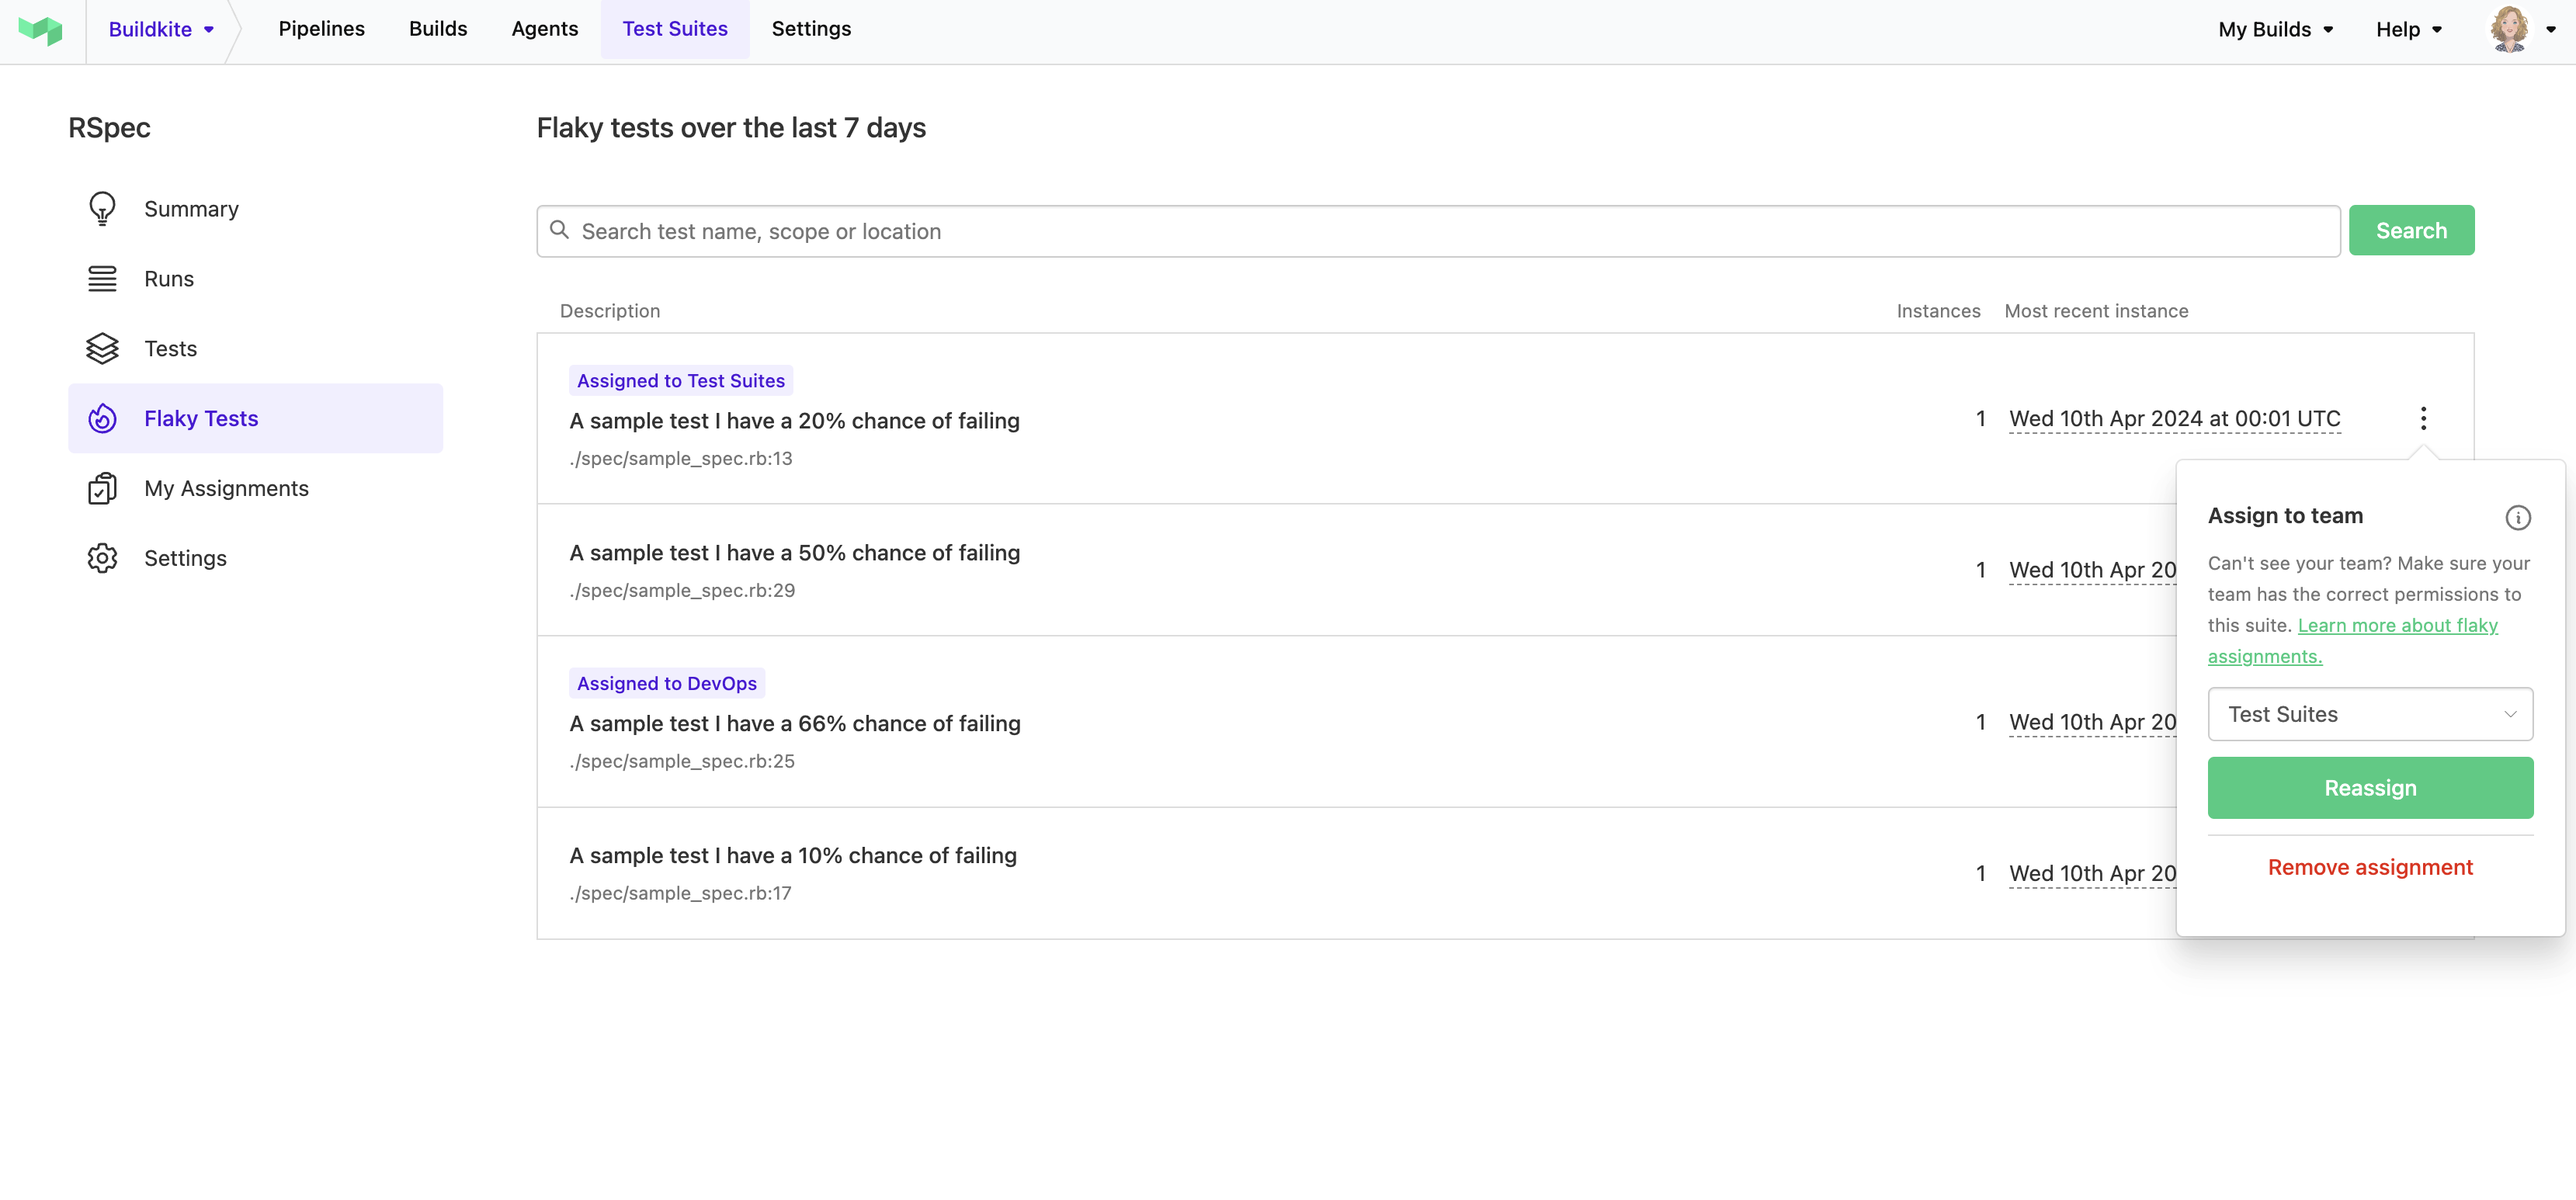
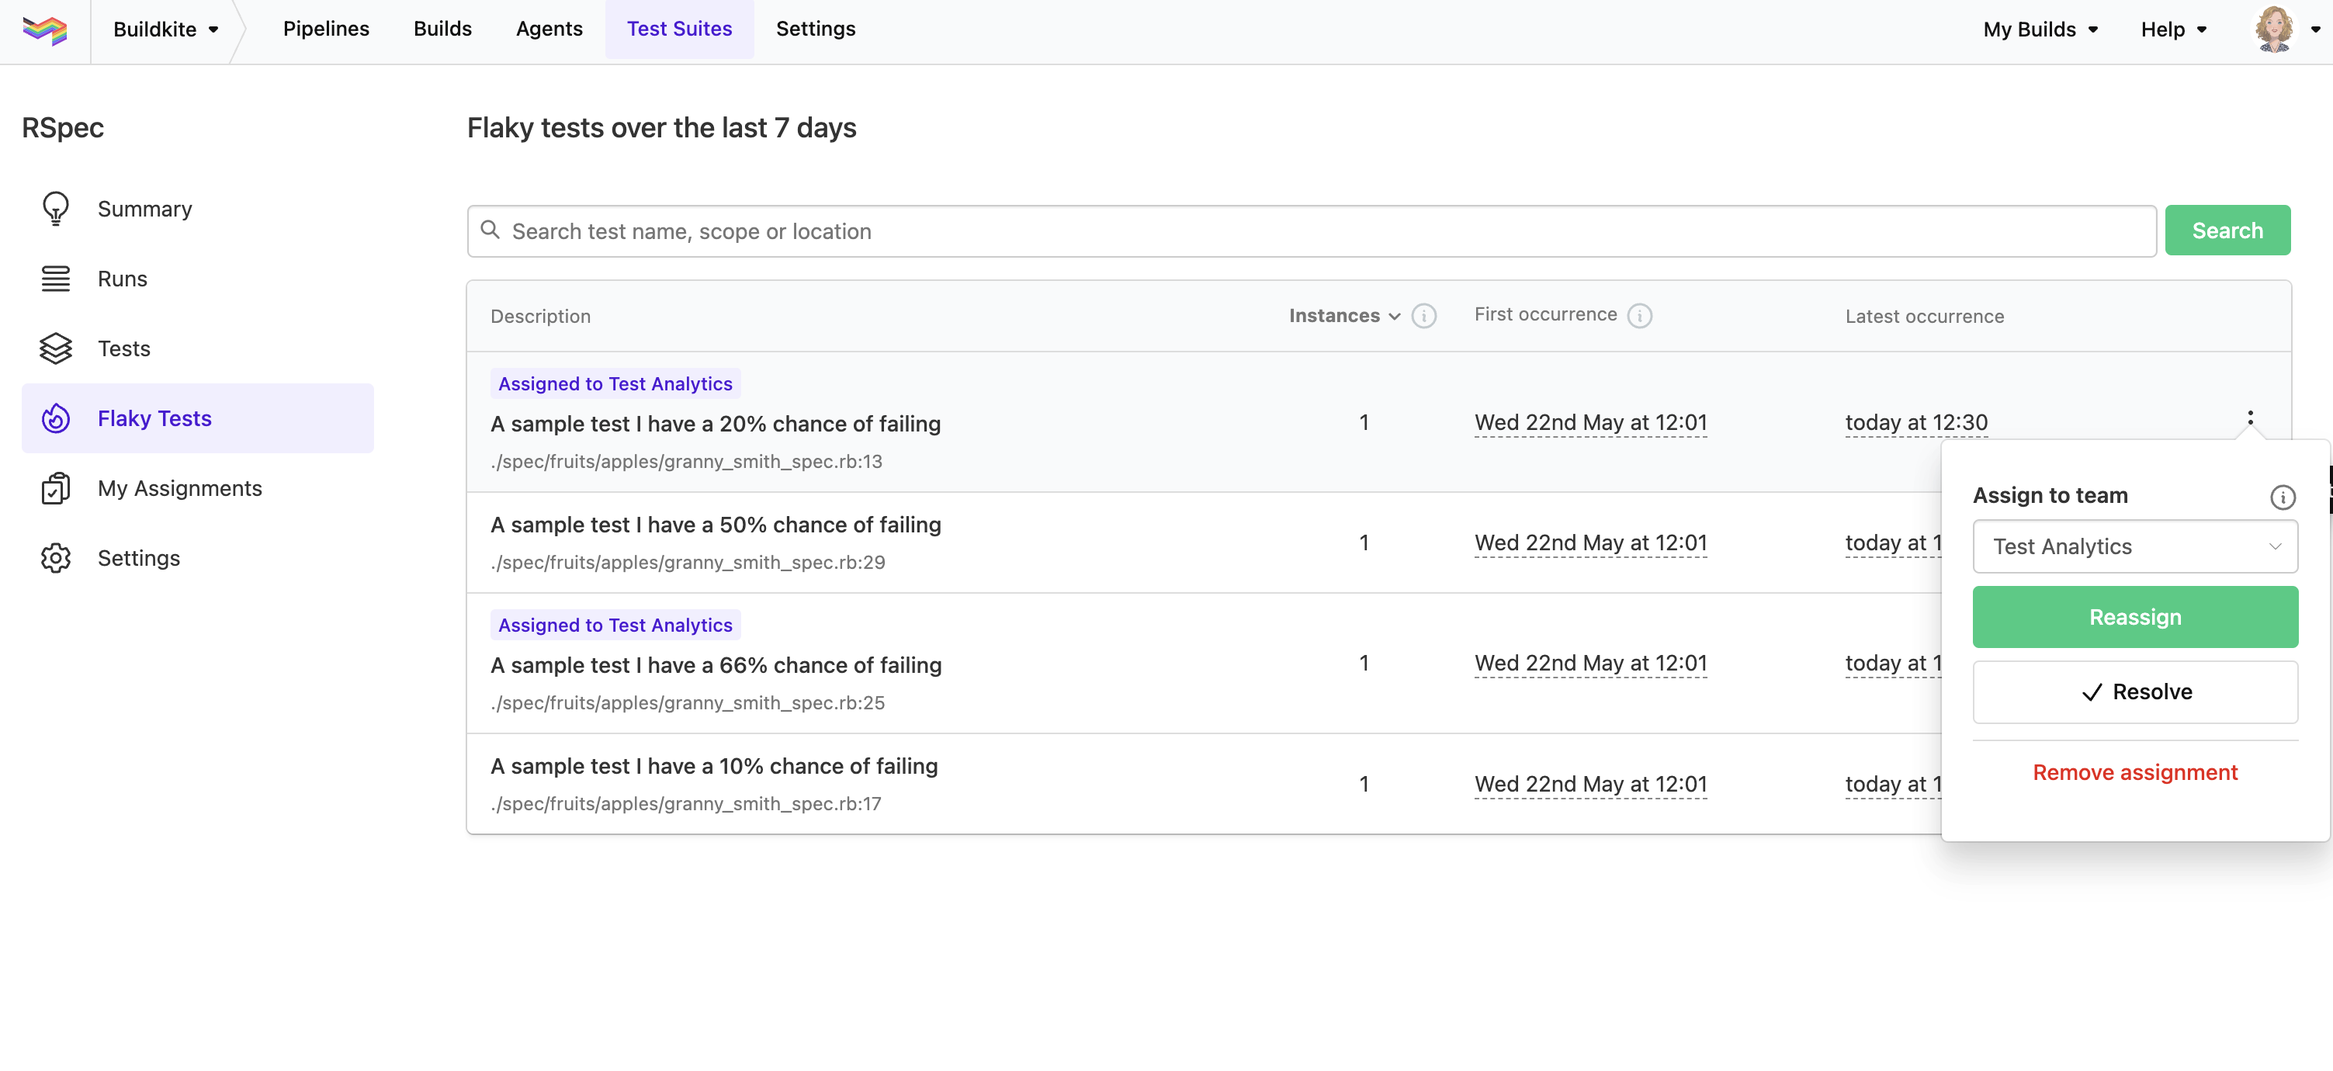
Flaky test resolution

diff --git a/pages/test_analytics/flaky_test_assignment.md b/pages/test_analytics/flaky_test_assignment.md
@@ -11,14 +11,20 @@ To enable assignments, you must have at least one team that has access to your s
 
 ## Assigning a test
 
-When viewing your flaky tests, you should now see a list of teams with suite access permissions listed inside the assignment dropdown. From here you may assign, reassign or remove the assignment.
+When viewing your flaky tests, you should now see a list of teams with suite access permissions listed inside the manage flaky dropdown. From here you may assign, reassign or remove the assignment.
 
 > 🚧 Assignment permissions
 > All team members have the ability to create, update or remove an assignment. This feature is not restricted to admins.
 
-Tests that are assigned to a team will be updated to display a badge indicating as such. This badge is also visible on issues in the run page.
+Tests that are assigned to a team will be updated to display a badge indicating as such.
 
 <%= image "flaky-test-teams.png", width: 1960/2, height: 630/2, alt: "Flaky test page showing team assignments" %>
+
+## Resolving a flaky test
+
+From the manage flaky dropdown, you can resolve your flaky test. Resolving a flaky test removes its current assignment and assigns a 'Marked as resolved' badge within the flaky index. If the test flakes again, it will be considered a 'Reoccurring flaky' and will receive a corresponding badge in the index.
+
+<%= image "flaky-test-resolution.png", width: 1960/2, height: 630/2, alt: "Flaky test page showing resolved and reoccurring badges" %>
 
 ## Viewing assignments
 
